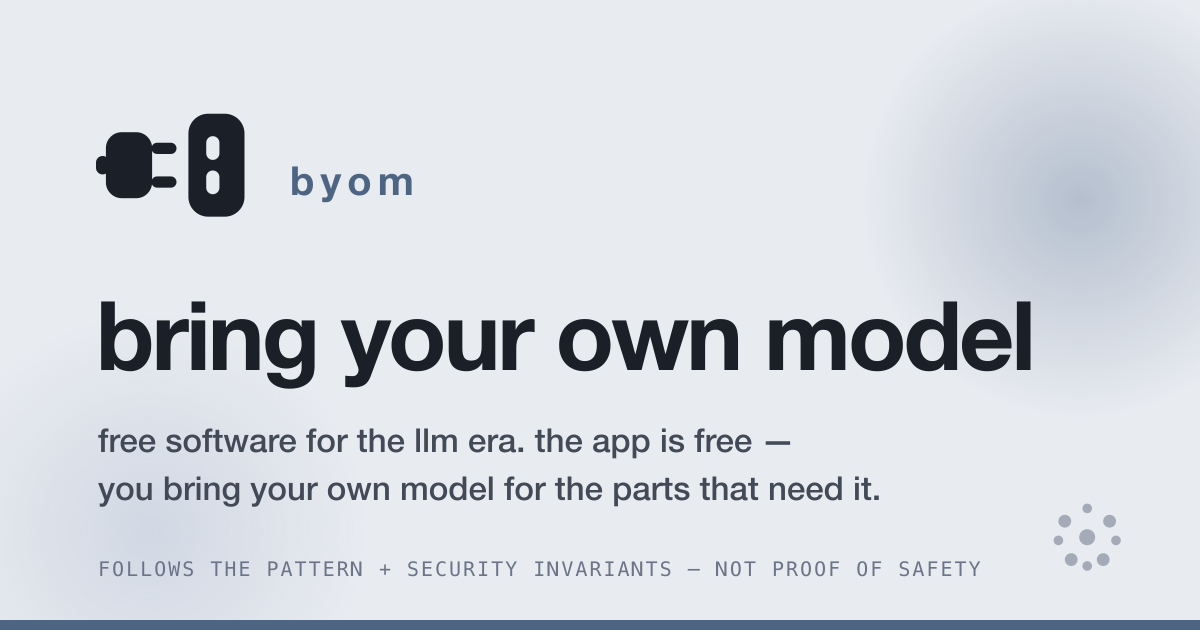
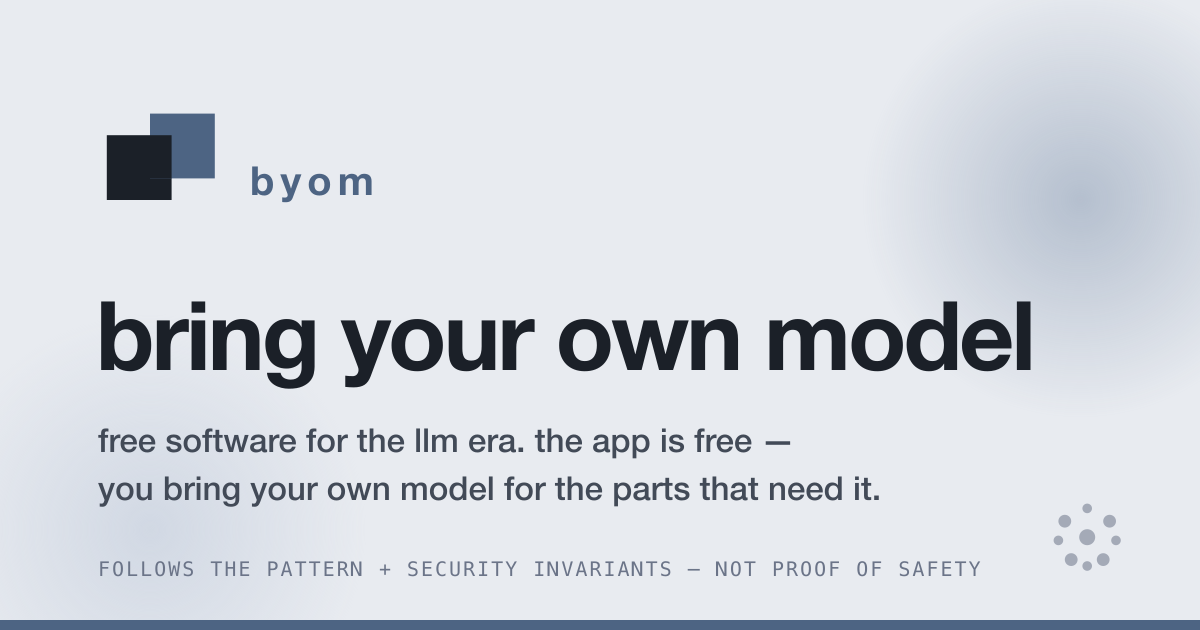
feat(badge): redesign the byom mark as overlapping squares; add minimal + themeable marks
Replace the plug→socket glyph with the BYOM mark: two overlapping squares —
the app (ink) and the model you bring (accent), deepening where they overlap
(the design system's ink-and-pigment "multiply" material as a logo). Square
corners, two-tone slate.

- Generate every brand SVG (favicon, badges, bare/themeable marks, OG image)
  from one canonical mark in website/scripts/gen-brand.mjs, wired into prebuild
  ahead of the rasterizer, so the variants cannot drift apart.
- Badges drop the app-store-style underline bar for a hairline border + square
  corners; served paths, dimensions, link target, and alt text are unchanged.
- Add byom-mark.svg / byom-mark-dark.svg (bare minimal mark, legible to ~12px)
  and byom-mark-currentColor.svg (inherits the host's text colour when inlined).
- Footer mark (was a stray ●—◗ text glyph) now uses the real mark.
- Constitution: update the icon direction (04) and "The glyph" + inventory
  (badge/README) to match; add a "Theming the inline mark" section — badge stays
  canonical, inline mark may follow the host theme via currentColor or two vars.

Changed region(s): [[0.0925, 0.181, 0.37, 0.3619], [0.0617, 0.2413, 0.0925, 0.2714]]

diff --git a/website/src/styles/global.css b/website/src/styles/global.css
@@ -604,10 +604,10 @@ a:focus-visible, button:focus-visible {
 }
 .colophon span:last-child { max-width: var(--measure); }
 .colophon-mark {
-  font-family: var(--font-mono);
-  color: var(--color-accent-base);
   flex: none;
-  letter-spacing: -0.1em;
+  width: 1.15em;
+  height: 1.15em;
+  align-self: center;
 }
 
 /* ── reduced motion ─────────────────────────────────────────────────── */

diff --git a/constitution/badge/README.md b/constitution/badge/README.md
@@ -9,11 +9,13 @@ embed snippets, and the honest claim text that travels with the badge. The websi
 
 ## The glyph
 
-A **plug connecting into an outlet**: a corded plug on the left, two prongs, and a two-slot socket on
-the right, with a small gap that reads as the moment of connection. It says "bring and connect your
-own" — deliberately not a robot (reads as "agent," the wrong meaning) and not a key-as-chore (too
-literal and joyless), per the constitution's icon direction. Monochrome, legible at 16px, and drawn
-in the slate palette of the site's design system.
+**Two overlapping squares**: the app (ink) and the model you bring (accent), with the overlap painted
+a deepened tone — colour darkening where two pigments stack, the design system's ink-and-pigment
+material. It says "bring your own model" as two things combining — deliberately not a robot (reads as
+"agent," the wrong meaning) and not a key-as-chore (too literal and joyless), per the constitution's
+icon direction. Two-tone slate, square-cornered, legible down to 16px. Every badge, the favicon, the
+bare mark, and the OG image are generated from this one mark by `website/scripts/gen-brand.mjs`, so
+the variants cannot drift apart.
 
 ## File inventory
 
@@ -24,20 +26,54 @@ site root, so they are **served** at `/assets/…`. Badge assets live under the 
 
 | File (repo path under `website/public/assets/`) | Purpose | Size | Origin |
 | --- | --- | --- | --- |
-| `badge/byom-badge-light.svg` | Standard badge, light | 168 × 44 | source |
-| `badge/byom-badge-dark.svg` | Standard badge, dark | 168 × 44 | source |
-| `badge/byom-badge-light-small.svg` | Small badge, light | 96 × 26 | source |
-| `badge/byom-badge-dark-small.svg` | Small badge, dark | 96 × 26 | source |
-| `favicon.svg` | Favicon / monogram | 32 × 32 | source |
-| `og-image.svg` | Open Graph image (source) | 1200 × 630 | source |
+| `badge/byom-badge-light.svg` | Standard badge, light | 168 × 44 | **generated** |
+| `badge/byom-badge-dark.svg` | Standard badge, dark | 168 × 44 | **generated** |
+| `badge/byom-badge-light-small.svg` | Small badge, light | 96 × 26 | **generated** |
+| `badge/byom-badge-dark-small.svg` | Small badge, dark | 96 × 26 | **generated** |
+| `badge/byom-mark.svg` | Bare mark, light (minimal variant) | 24 × 24 | **generated** |
+| `badge/byom-mark-dark.svg` | Bare mark, dark (minimal variant) | 24 × 24 | **generated** |
+| `badge/byom-mark-currentColor.svg` | Bare mark, `currentColor` (themeable inline) | 24 × 24 | **generated** |
+| `favicon.svg` | Favicon / monogram | 32 × 32 | **generated** |
+| `og-image.svg` | Open Graph image (source) | 1200 × 630 | **generated** |
 | `og-image.png` | Open Graph image (delivered) | 1200 × 630 | **generated** |
 | `favicon-32.png` | PNG favicon fallback | 32 × 32 | **generated** |
 | `apple-touch-icon.png` | iOS home-screen icon | 180 × 180 | **generated** |
 
-The **generated** PNGs are produced from their SVG sources by `website/scripts/raster-assets.mjs`,
-which runs automatically as the `prebuild` step of `npm run build` (or on demand via `npm run
-raster`). They are committed so the repo is self-contained, and regenerated on every build so they
-never drift from the sources.
+The brand **SVGs** are produced from the single canonical mark by `website/scripts/gen-brand.mjs`;
+the **PNGs** are then rasterized from `favicon.svg` and `og-image.svg` by
+`website/scripts/raster-assets.mjs`. Both run automatically, in that order, as the `prebuild` step of
+`npm run build` (or on demand via `npm run brand` / `npm run raster`). All outputs are committed so
+the repo is self-contained, and regenerated on every build so the variants never drift from the mark.
+
+The bare mark (`byom-mark.svg`) is the **minimal variant** — the glyph with no frame or wordmark, for
+showing the pattern lightly inside a UI where space is tight. It stays legible down to ~12px.
+
+## Theming the inline mark
+
+**The badge stays canonical — do not recolour it.** The badge is a recognition mark: its value is
+that it looks the same across every app, so a returning user recognises the pattern (the same reason
+"verified" marks and the OSI logo are fixed). Recolouring the badge to an app's palette turns a shared
+signal into decoration. The badge is also shipped to be embedded via `<img src>` for strict-CSP
+safety, and an `<img>`-loaded SVG is an isolated document that cannot read the host page's
+`currentColor` or CSS variables — so it does not inherit a theme even if you try.
+
+The **bare mark used inline in an app's own chrome** is a different case — there it is a lightweight
+"BYOM-powered" affordance, not the trust claim, and matching the host theme is reasonable. To theme
+it, the app must **inline** the SVG into its DOM (not load it via `<img>`). Two supported ways:
+
+- **`currentColor` (monochrome).** Use `byom-mark-currentColor.svg`; it inherits the surrounding text
+  colour. The app square is drawn at half opacity so the two-square read survives in one colour. One
+  file works in both light and dark UIs.
+- **Two CSS variables (full two-tone).** Inline `byom-mark.svg` and map its fills to your own tokens:
+
+  ```svg
+  <rect x="2"  y="8" width="12" height="12" fill="var(--byom-app, #1B2028)"/>
+  <rect x="10" y="4" width="12" height="12" fill="var(--byom-model, #4D6483)"/>
+  <rect x="10" y="8" width="4"  height="8"  fill="var(--byom-app, #1B2028)"/>
+  ```
+
+  The app overrides `--byom-app` (its ink) and `--byom-model` (its accent); the defaults are BYOM's
+  slate. This keeps the deepened-overlap depth of the canonical mark.
 
 Each badge SVG is self-contained (no external references, no scripts, no external fonts) so it is
 safe under a strict CSP and embeds anywhere.
@@ -156,7 +192,8 @@ The link target (site root `/`) is likewise stable.
 - `favicon.svg` is the monogram (the mark on a rounded square). It is referenced from the site's
   `<link rel="icon">`, with `favicon-32.png` as a PNG fallback and `apple-touch-icon.png` (180 × 180)
   for iOS — both rasterized from the SVG by the build (see "File inventory").
-- `og-image.svg` is the editable Open Graph **source** (1200 × 630). Because several social platforms
-  and chat unfurlers do not render SVG OG images, the build rasterizes it to `og-image.png`, and
-  `<meta property="og:image">` references the PNG. The raster step inlines the design-system font so
-  the wordmark renders correctly without a system-font fallback.
+- `og-image.svg` is the Open Graph **source** (1200 × 630), generated alongside the badges from the
+  canonical mark by `gen-brand.mjs` (edit the layout there, not the SVG). Because several social
+  platforms and chat unfurlers do not render SVG OG images, the build rasterizes it to `og-image.png`,
+  and `<meta property="og:image">` references the PNG. The raster step inlines the design-system font
+  so the wordmark renders correctly without a system-font fallback.

diff --git a/constitution/04-badge-and-registry.md b/constitution/04-badge-and-registry.md
@@ -8,12 +8,12 @@ The badge is for **free and open-source** apps. To display it, the app must be f
 
 ### Icon direction
 
-The badge glyph should evoke **connect your own model** — a model/socket/plug-into-slot idea. Deliberately avoid:
+The badge glyph should evoke **bring your own model** — the model you bring combining with the app. Deliberately avoid:
 
 - **The robot** — reads as "agent," which is the wrong meaning.
 - **The key-as-chore** — too literal and joyless.
 
-A plug, socket, or connect glyph carries "bring and connect your own" without the agent baggage.
+A simple, geometric "your model meets the app" mark carries "bring your own" without the agent baggage.
 
 ## What the badge can and cannot claim
 

diff --git a/website/.design/DESIGN.md b/website/.design/DESIGN.md
@@ -49,6 +49,7 @@
 - `.app-list` — the registry: a plain hairline-ruled list of apps that use the convention (name · description · source/integration links). Not cards — a registry entry is a fact, not a product.
 - `.inv` — the six security invariants as a numbered hairline list; mono numeral as the only mark.
 - `.embed-snippet` — code blocks for copy-paste embeds; monospace (JetBrains Mono), ink background, hairline border.
+- **brand mark** — the byom logo is two overlapping squares (the app in ink, the model you bring in accent) that deepen where they overlap, applying the system's ink-and-pigment "multiply" material as a mark. Square corners, two-tone slate, lockup in Archivo. One canonical definition in `scripts/gen-brand.mjs` emits every variant (favicon, standard/small badges in light/dark, a bare minimal mark, OG image) so they cannot drift; it runs first in `prebuild`, ahead of the rasterizer. Replaces the earlier plug→socket glyph and the footer's stray `●—◗` text mark.
 
 ## Site shape
 
@@ -58,4 +59,5 @@ One page. The constitution-facing detail (security architecture, full badge asse
 
 - 2026-06-21 initial adoption: v0.1.0 — wired tokens.css, fonts, base/type/components/atmosphere/material styles into Astro layout. Slate theme override applied; fireflies effect ported to masthead title.
 - 2026-06-22 voice + shape correction: removed the uppercase tracked eyebrow/label tic across the site to honour the lowercase voice (`type.md`); collapsed the four pages into a single homepage; replaced the registry product-cards with a plain list. Copy plainer, fewer flourishes.
+- 2026-06-27 brand redesign: replaced the plug→socket glyph with the overlapping-squares mark (app + your model, deepening on overlap — the system's ink+pigment material as a logo). Square corners, hairline-bordered badges (dropped the app-store underline bar). Added a bare minimal mark for tight UI spaces. Unified the footer (was a stray `●—◗` text mark) onto the real mark. All nine brand SVGs now generate from one definition (`scripts/gen-brand.mjs`, wired into `prebuild` before the rasterizer); constitution badge glyph description + inventory updated to match.
 - 2026-06-22 atmosphere scoping: dropped the nav (single page). Firefly motes moved from the full-page atmosphere into the masthead, revealed through a radial mask centred on the title so they cluster around the header and fade out. The breathing grid is masked out behind the centred content column and fades in over a 140px band toward the page edges; grain + bloom remain full-bleed. Footer spans the full content width.